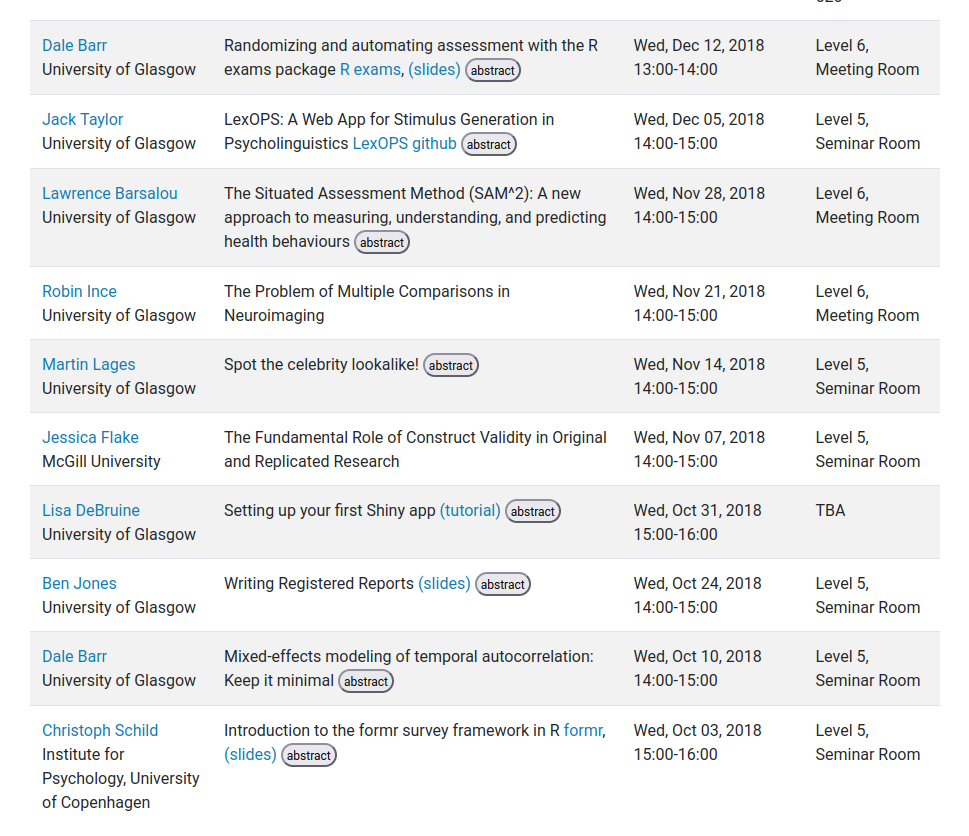
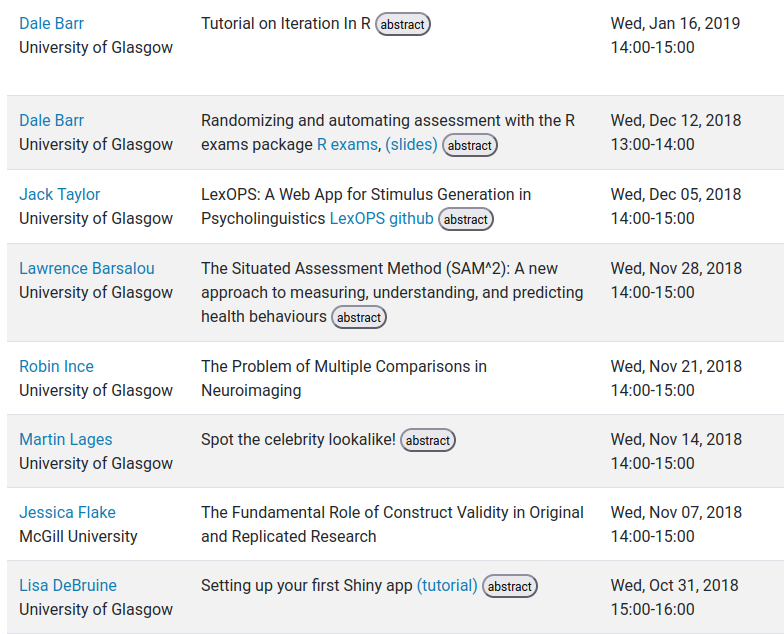
minor fixes

diff --git a/index.html b/index.html
@@ -295,13 +295,13 @@ Dale Barr
 </div>
 </div></div>
 </section>
-<section id="university-of-california-riverside" class="slide level2">
-<h2>University of California, Riverside</h2>
+<section id="university-of-california-riverside-2002-2010" class="slide level2">
+<h2>University of California, Riverside (2002-2010)</h2>
 
 <img data-src="img/ucr.png" class="quarto-figure quarto-figure-center r-stretch"><ul>
 <li>MAMA journal club run by Dan Ozer, David Funder, and Bob Rosenthal</li>
-<li>Chandra Reynolds introduced me to “Hierarchical Linear Modeling”</li>
-<li>In 2006 Doug Davidson (MPI-NL) introduced me to <code>lme4</code></li>
+<li>2003: Chandra Reynolds introduced me to “Hierarchical Linear Modeling”</li>
+<li>2006: Doug Davidson (MPI-NL) introduced me to <code>lme4</code></li>
 </ul>
 </section>
 <section id="glasgow-2010" class="slide level2">
@@ -361,32 +361,32 @@ Dale Barr
 </thead>
 <tbody>
 <tr class="odd">
-<td style="text-align: left;">native</td>
+<td style="text-align: left;">first</td>
 <td style="text-align: left;">587</td>
 <td style="text-align: left;">710</td>
 </tr>
 <tr class="even">
-<td style="text-align: left;">native</td>
+<td style="text-align: left;">first</td>
 <td style="text-align: left;">436</td>
 <td style="text-align: left;">571</td>
 </tr>
 <tr class="odd">
-<td style="text-align: left;">native</td>
+<td style="text-align: left;">first</td>
 <td style="text-align: left;">601</td>
 <td style="text-align: left;">803</td>
 </tr>
 <tr class="even">
-<td style="text-align: left;">nonnative</td>
+<td style="text-align: left;">second</td>
 <td style="text-align: left;">449</td>
 <td style="text-align: left;">723</td>
 </tr>
 <tr class="odd">
-<td style="text-align: left;">nonnative</td>
+<td style="text-align: left;">second</td>
 <td style="text-align: left;">599</td>
 <td style="text-align: left;">677</td>
 </tr>
 <tr class="even">
-<td style="text-align: left;">nonnative</td>
+<td style="text-align: left;">second</td>
 <td style="text-align: left;">435</td>
 <td style="text-align: left;">569</td>
 </tr>
@@ -1059,19 +1059,7 @@ Dale Barr
 <section>
 <section id="its-a-long-process-full-of-frustration-but-the-reward-is-more-than-worth-it" class="title-slide slide level1 center">
 <h1>it’s a long process full of frustration… but the reward is more than worth it!</h1>
-<aside class="notes">
-<p><strong>in the meantime, you can buy tissues in bulk at your local CostCo…</strong></p>
-<style type="text/css">
-        span.MJX_Assistive_MathML {
-          position:absolute!important;
-          clip: rect(1px, 1px, 1px, 1px);
-          padding: 1px 0 0 0!important;
-          border: 0!important;
-          height: 1px!important;
-          width: 1px!important;
-          overflow: hidden!important;
-          display:block!important;
-      }</style></aside>
+
 </section>
 <section id="references" class="slide level2 smaller scrollable">
 <h2>References</h2>
